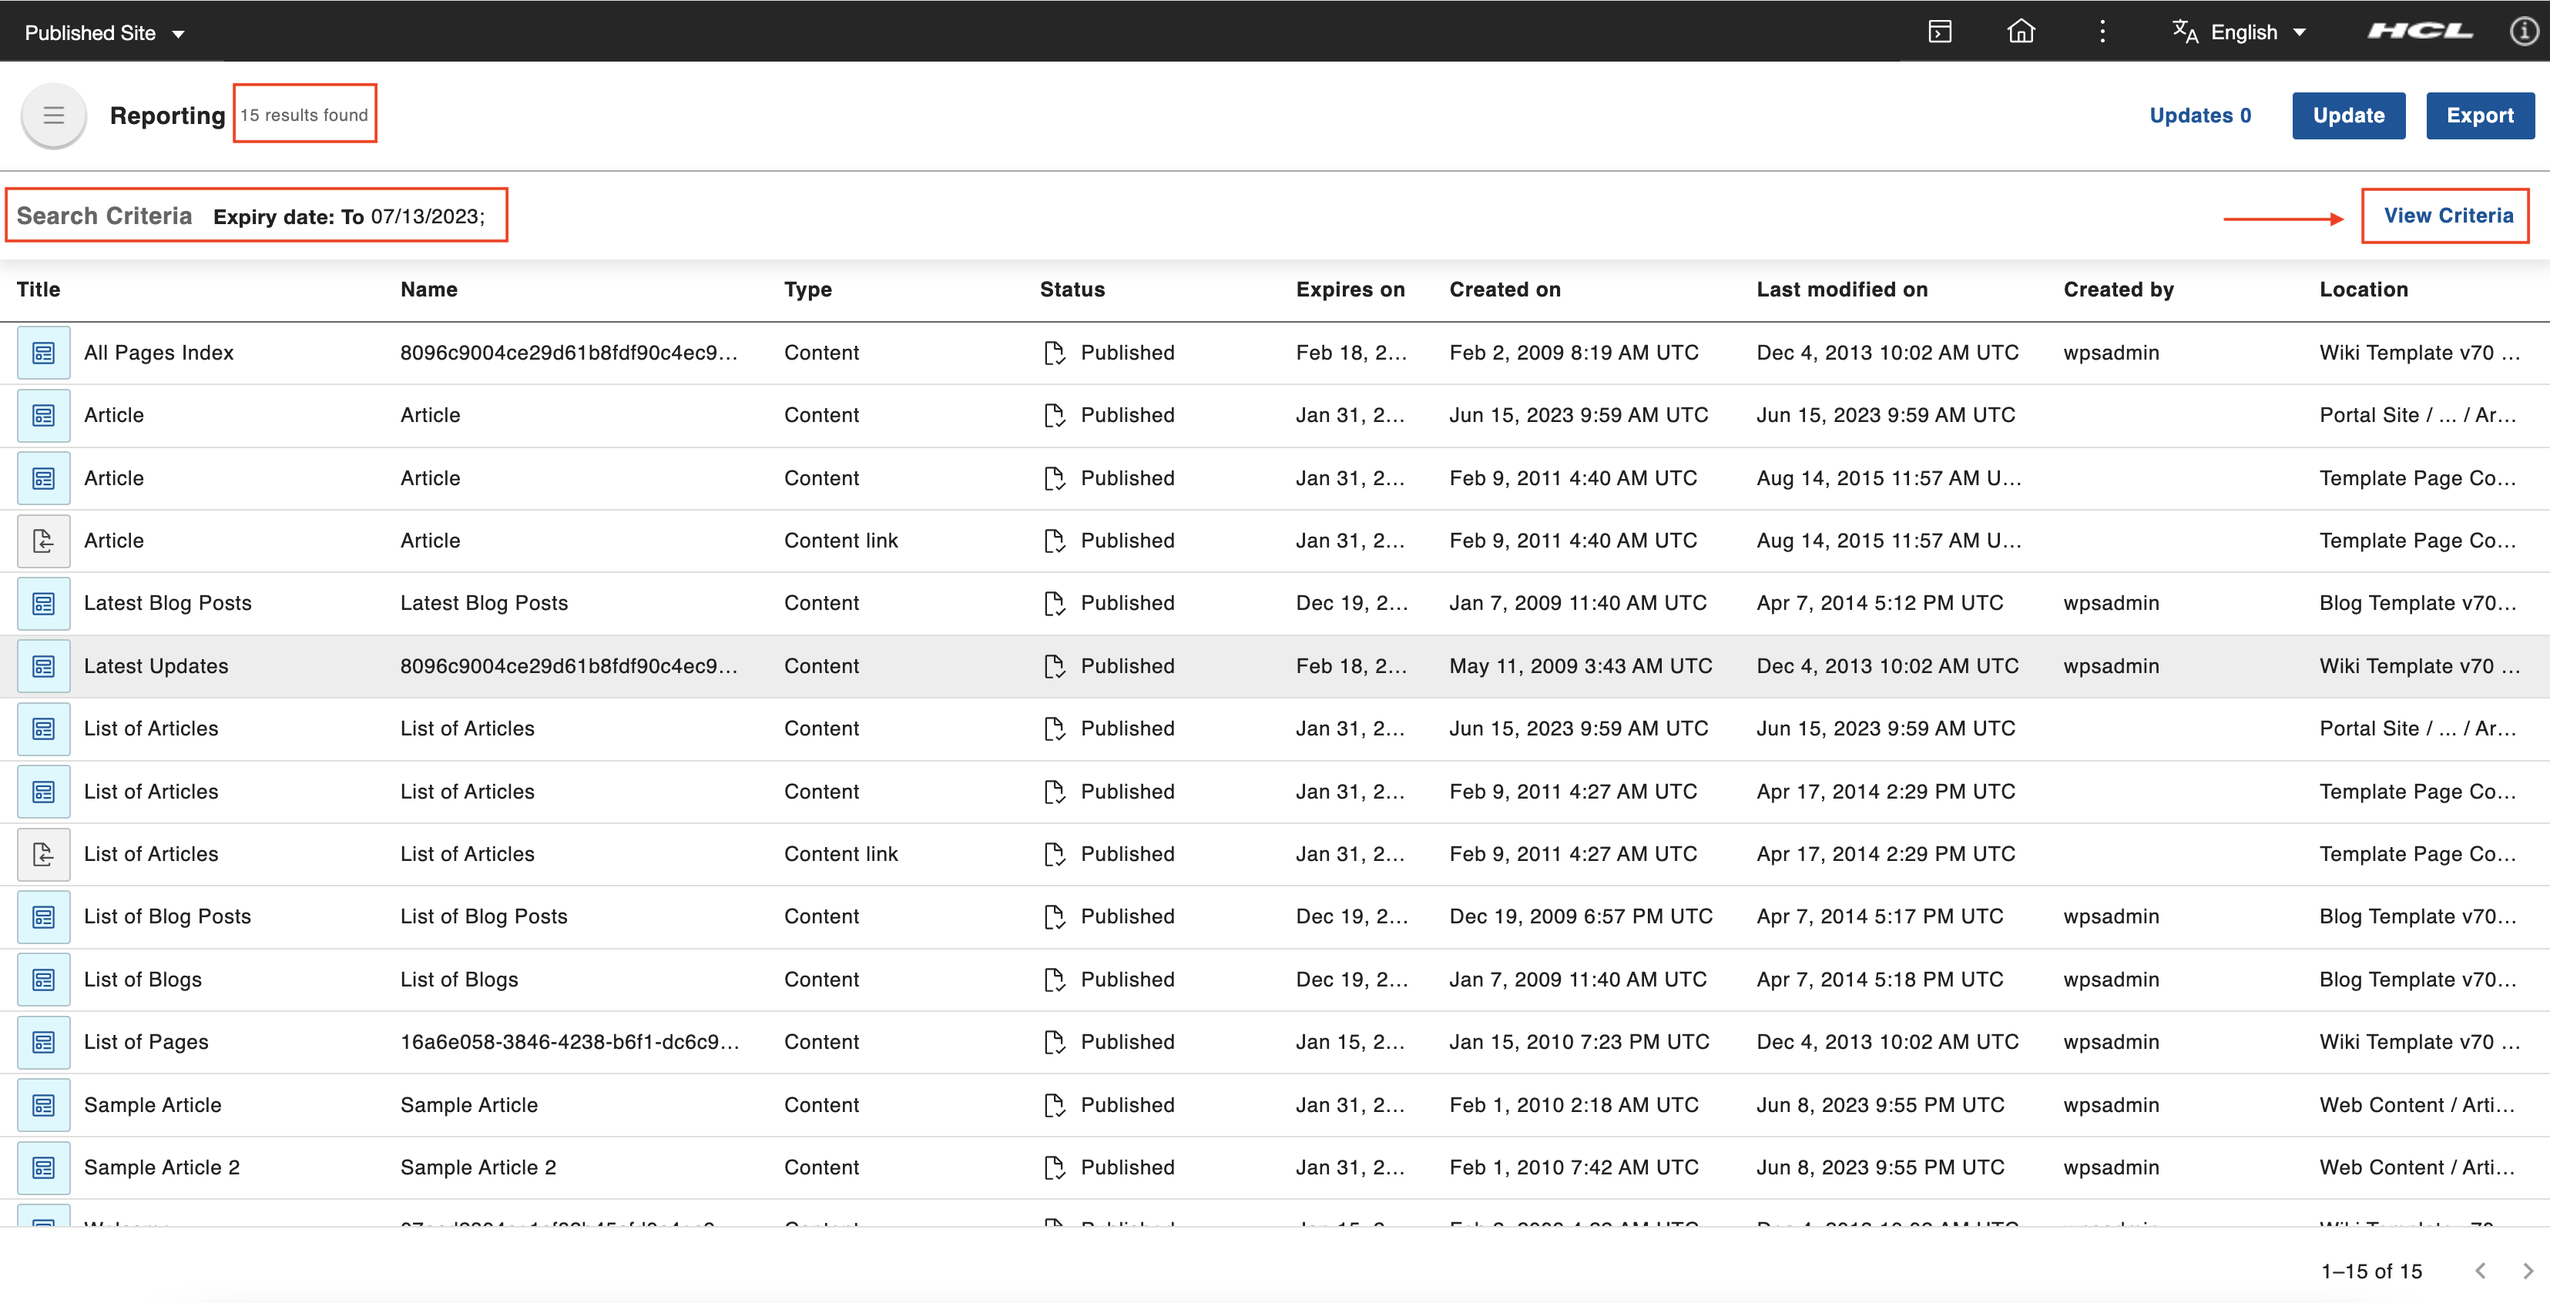
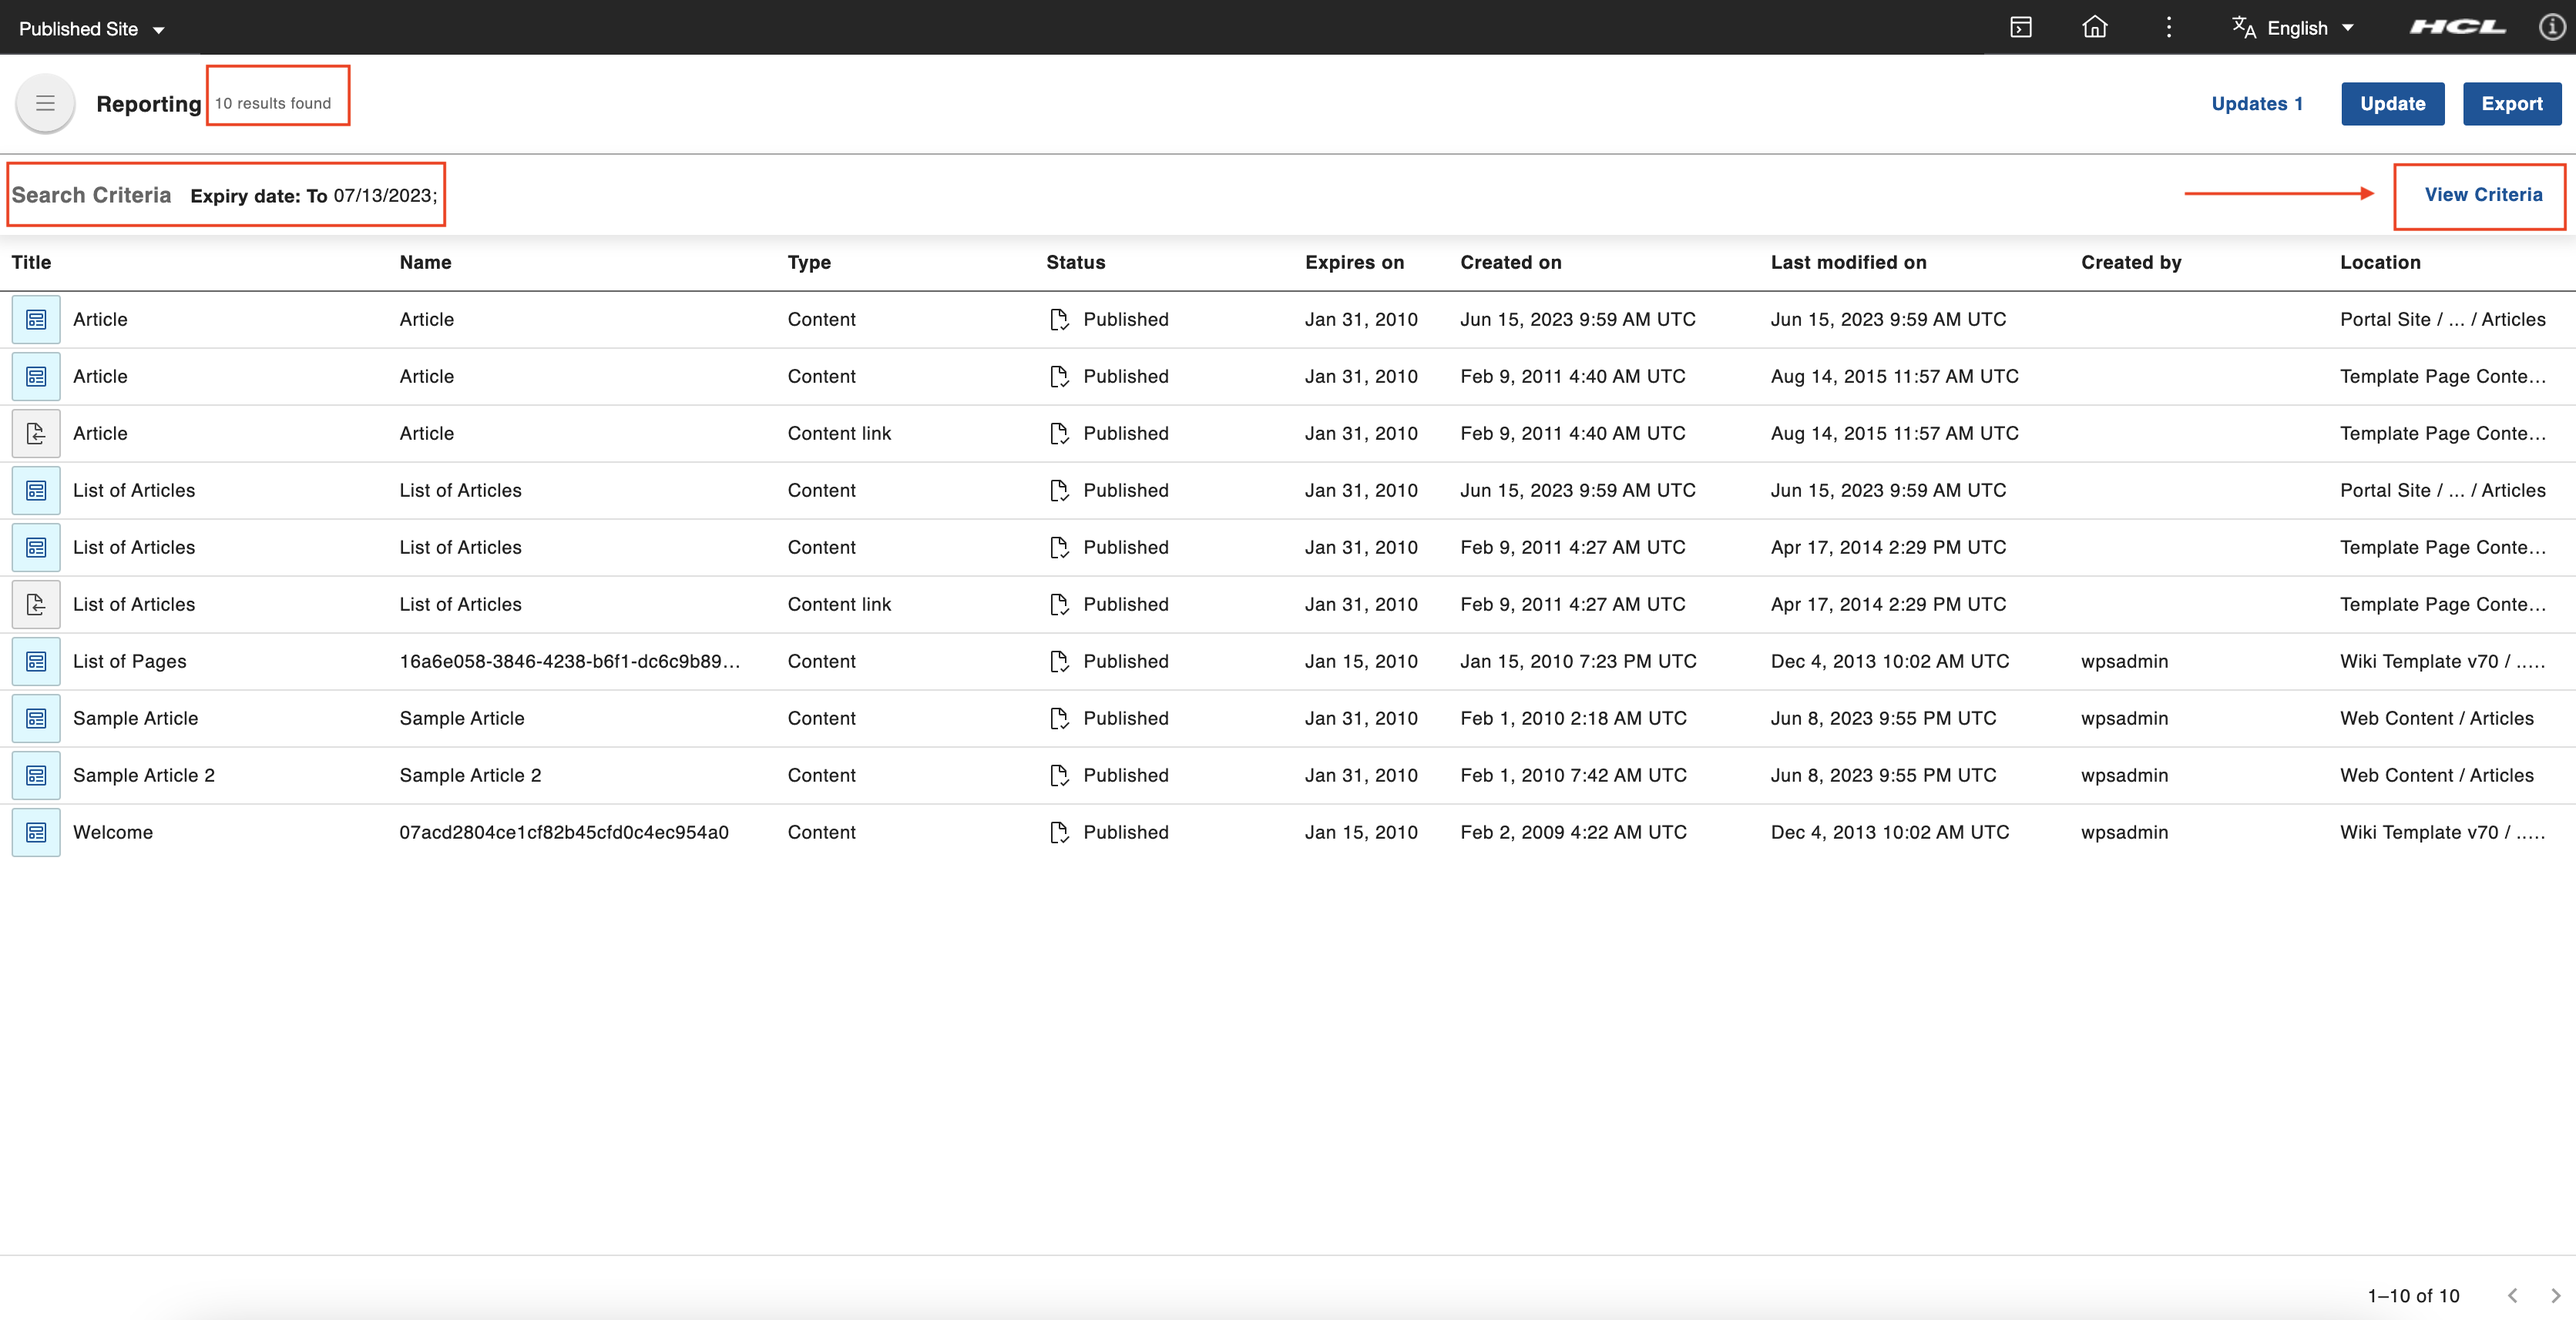
Addressed review comments

diff --git a/docs/manage_content/wcm_authoring/content_reporting/usage/generate_content_report.md b/docs/manage_content/wcm_authoring/content_reporting/usage/generate_content_report.md
@@ -14,8 +14,6 @@ A report is a list of items that matches a set or combined sets of criteria. Con
 
 1.  Log in to your HCL Digital Experience 9.5 platform and select **Web Content**, then select **Content Reporting** from the Practitioner Studio navigator.
 
-    ![](../../../../assets/HCL_Content_Reporting_Landing_Page.png)
-
 2.  Close the sidebar. On the **Search Criteria** section, select the appropriate criteria to generate a report of matching contents.
     ![](../../../../assets/HCL_Content_Reporting_Criteria_Dropdown.png)
 
@@ -87,7 +85,7 @@ A report is a list of items that matches a set or combined sets of criteria. Con
 
 3. After you have selected the search criteria, click **Search**.
 
-    The system displays a set of search results that fit the selected criteria. The total number of results is shown at the top (for example, *15 results found*). The number of matching results helps the user make more informed query reformulations. The applied search criteria information is also displayed at the **Search Criteria** bar (for example, *Expiry date: To 07/13/2023;*).
+    The system displays a set of search results that fit the selected criteria. The total number of results is shown at the top (for example, *10 results found*). The number of matching results helps the user make more informed query reformulations. The applied search criteria information is also displayed at the **Search Criteria** bar (for example, *Expiry date: To 07/13/2023;*).
 
     On the top right corner, the **View Criteria** opens the top drawer and displays the applied search criteria.
 

diff --git a/docs/manage_content/wcm_authoring/content_reporting/installation/index.md b/docs/manage_content/wcm_authoring/content_reporting/installation/index.md
@@ -31,7 +31,7 @@ To enable Content Reporting for on-premise deployment, run the **enable-content-
         For the **contentreporting.static.ui.url** parameter value, a slash is required in the end.
 
 !!! note
-        If using a webserver, it is required to [map the Content Reporting application to it](https://www.ibm.com/docs/en/was/9.0.5?topic=files-mapping-modules-servers) in addition to the Digital Experience server or cluster, regenerate and propagate the plugin-cfg.xml file.
+        If using a webserver, it is required to [map the Content Reporting application to the server](https://www.ibm.com/docs/en/was/9.0.5?topic=files-mapping-modules-servers) in addition to the Digital Experience server or cluster, regenerate and propagate the plugin-cfg.xml file.
 
 
 ### Enabling Content Reporting - Helm processes for DX deployments on Kubernetes

diff --git a/docs/manage_content/wcm_authoring/content_reporting/usage/bulk_update_report.md b/docs/manage_content/wcm_authoring/content_reporting/usage/bulk_update_report.md
@@ -11,9 +11,7 @@ Content Reporting should be installed and configured in HCL Digital Experience 9
 
 Content managers can trigger bulk updates to update the expiration dates of all queried items.
 
-1.  Log in to your HCL Digital Experience 9.5 platform and select **Web Content**. Select **Content Reporting** from the Practitioner Studio navigator. The following image shows the Content Reporting landing page. 
-
-    ![](../../../../assets/HCL_Content_Reporting_Landing_Page.png)
+1.  Log in to your HCL Digital Experience 9.5 platform and select **Web Content**. Select **Content Reporting** from the Practitioner Studio navigator. The following image shows the Content Reporting landing page.
 
 2. Generate a report on items you want to update. See [Generating a content report](../usage/generate_content_report.md) for instructions.
 

diff --git a/docs/manage_content/wcm_authoring/content_reporting/usage/export_content_report.md b/docs/manage_content/wcm_authoring/content_reporting/usage/export_content_report.md
@@ -1,4 +1,4 @@
-# Using the Content Reporting Export feature
+# Exporting generated reports to CSV
 
 This section provides steps on how to export the generated report to a CSV file in HCL Content Reporting.
 
@@ -11,8 +11,6 @@ Content Reporting should be installed and configured in HCL Digital Experience 9
 Content managers can export generated reports in HCL Content Reporting.
 
 1.  Log in to your HCL Digital Experience 9.5 platform and select **Web Content**. Select **Content Reporting** from the Practitioner Studio navigator.
-
-    ![](../../../../assets/HCL_Content_Reporting_Landing_Page.png)
 
 2. Generate a report on the items you want to export. See [Generating a content report](../usage/generate_content_report.md) for instructions.
 

diff --git a/docs/manage_content/wcm_authoring/content_reporting/index.md b/docs/manage_content/wcm_authoring/content_reporting/index.md
@@ -14,6 +14,9 @@ Refer to the following pages for more information:
 - **[Install HCL Content Reporting components](../content_reporting/installation/index.md)**
     This section provides a high-level overview of the architecture and the steps to install, enable, and update HCL Content Reporting.
 
+- **[Access HCL Content Reporting](../content_reporting/access/index.md)**
+    This section provides the steps on how to access the HCL Content Reporting portlet and details how each report criterion is interpreted.
+
 - **[Usage of HCL Content Reporting](../content_reporting/usage/index.md)**
     Create and export reports on content items using HCL Content Reporting. Users can also update the reported content items in bulk.
 

diff --git a/docs/manage_content/wcm_authoring/content_reporting/usage/index.md b/docs/manage_content/wcm_authoring/content_reporting/usage/index.md
@@ -8,5 +8,3 @@ This section provides steps on how to generate content reports through HCL Conte
 This section provides the steps on how to export a content report.
 -   **[Using the Content Reporting Bulk Update feature](../usage/bulk_update_report.md)**
 This section provides the steps on how to use Content Reporting to allow content managers to update expiry dates in bulk.
-
-
